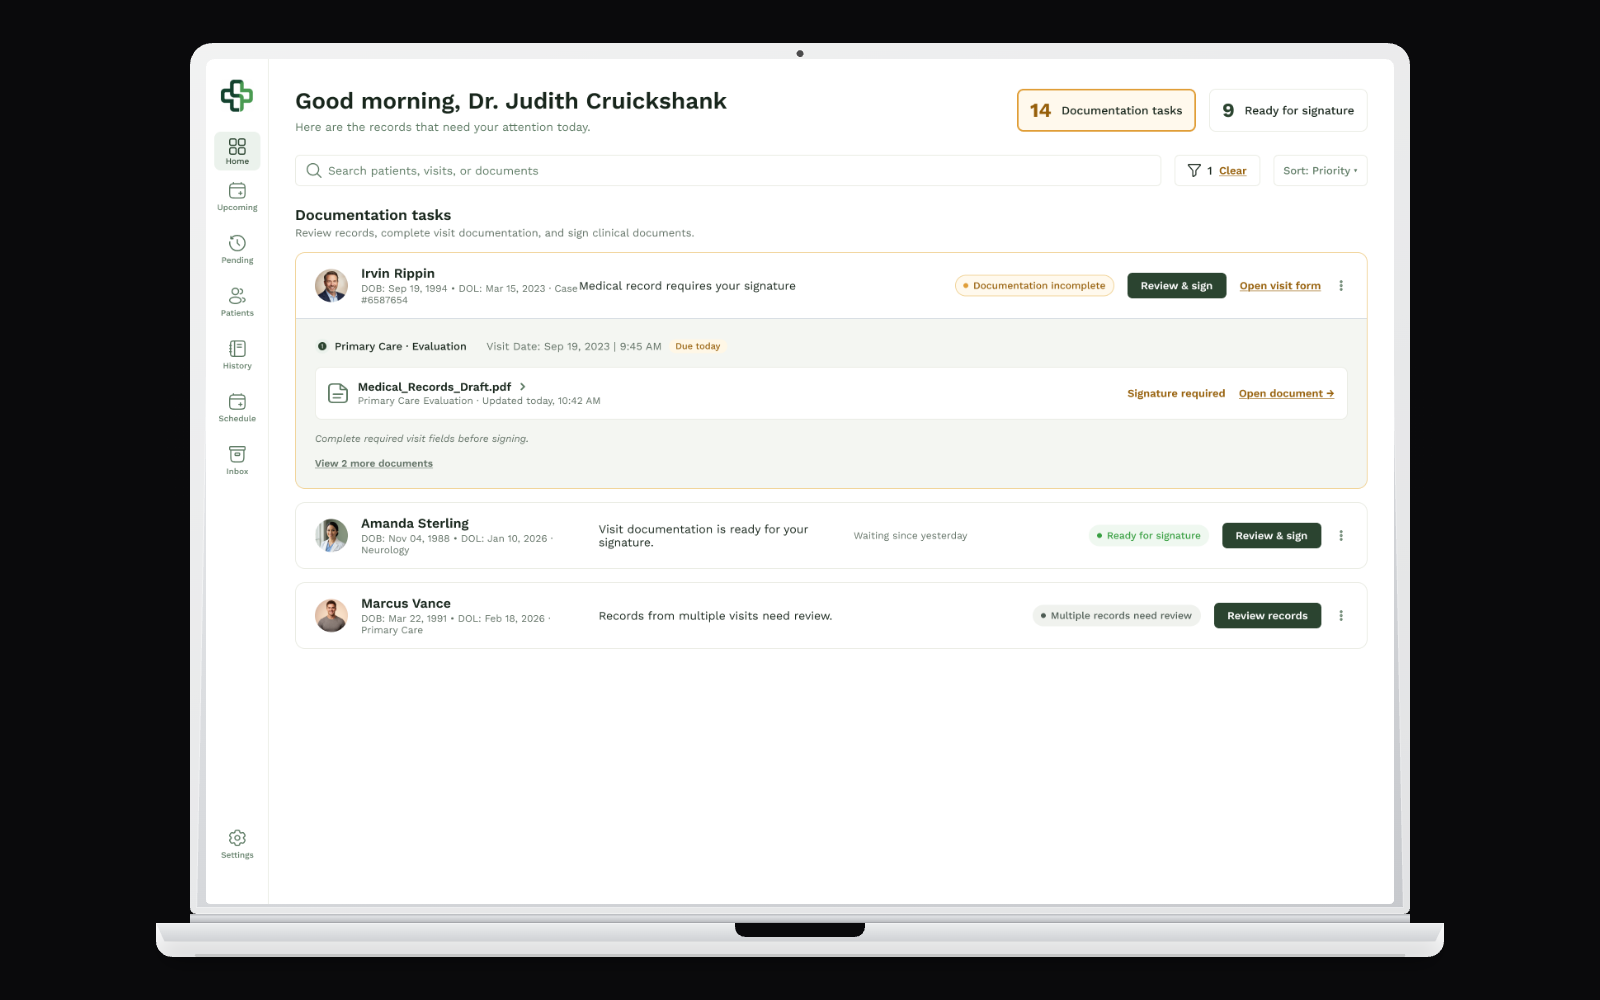
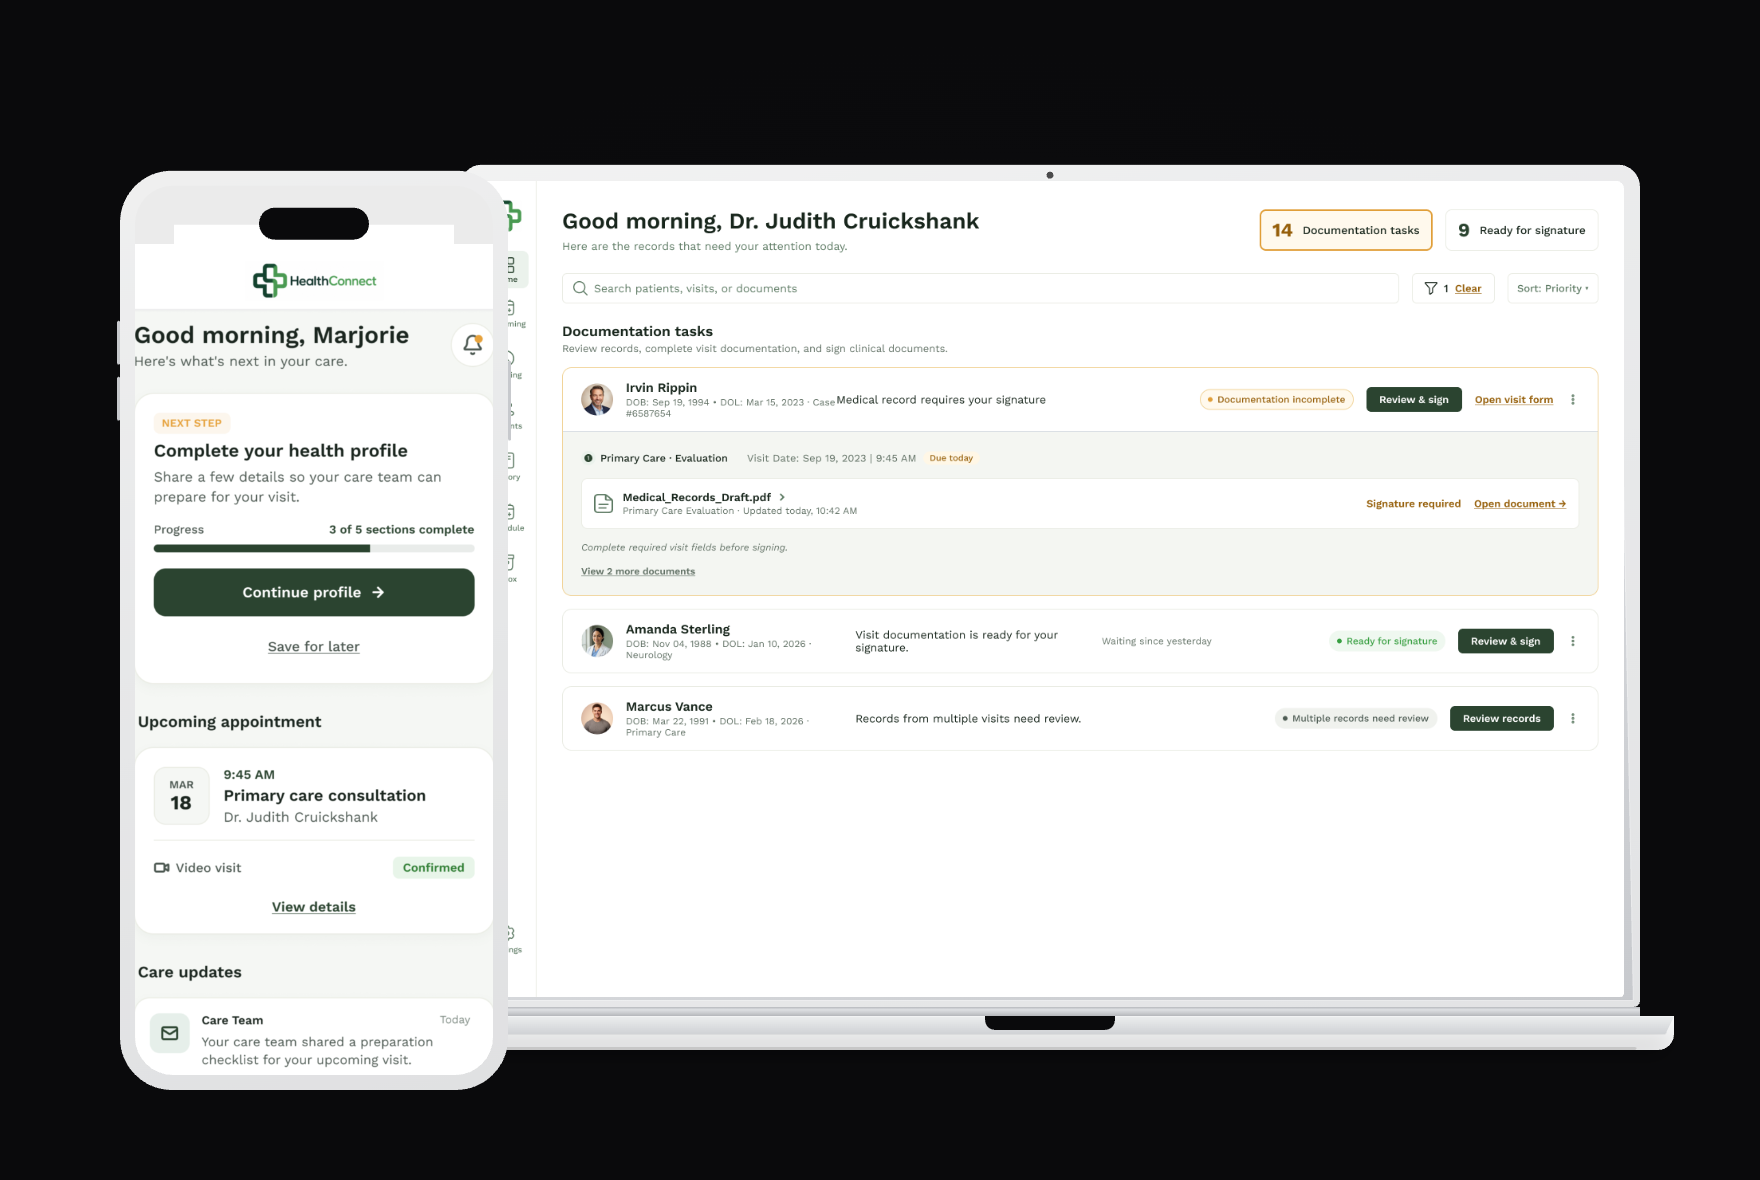
Add phone to the HealthConnect card cover mockup
Per reference (magnific.com laptop+phone mockup): pairs a hand-built
silver iPhone frame with the existing laptop, phone overlapping in
front on the left. The phone shows the patient-facing HealthConnect
home screen — content cropped from the user's Mockuuups iPhone export
(their device chrome discarded, only the real screen content kept)
and composited into our own frame, avoiding that mockup's attribution
requirement the same way the laptop swap did.

Adds assets/healthconnect/patient-home-content.png (the cropped
patient-app screen) as a reusable source asset — a real patient-side
screen we don't have anywhere else yet; worth considering for the Key
Screens slider alongside the two doctor-side screens already there.

Changed region(s): [[0.0625, 0.031, 0.9688, 0.961]]

diff --git a/index.html b/index.html
@@ -201,7 +201,7 @@
 
         <a href="healthconnect.html" class="case-card case-card--featured">
           <div class="case-card__art case-card__art--2">
-            <img src="assets/healthconnect/card-cover.png" alt="HealthConnect doctor home screen shown in a silver laptop mockup on a black background" class="case-card__cover" />
+            <img src="assets/healthconnect/card-cover.png" alt="HealthConnect doctor home screen in a silver laptop mockup, with the patient app home screen in a silver phone mockup overlapping in front, on a black background" class="case-card__cover" />
             <div class="case-card__overlay">
               <div class="case-card__tags">
                 <span>Healthcare SaaS</span><span>Multi-Role Platform</span>
